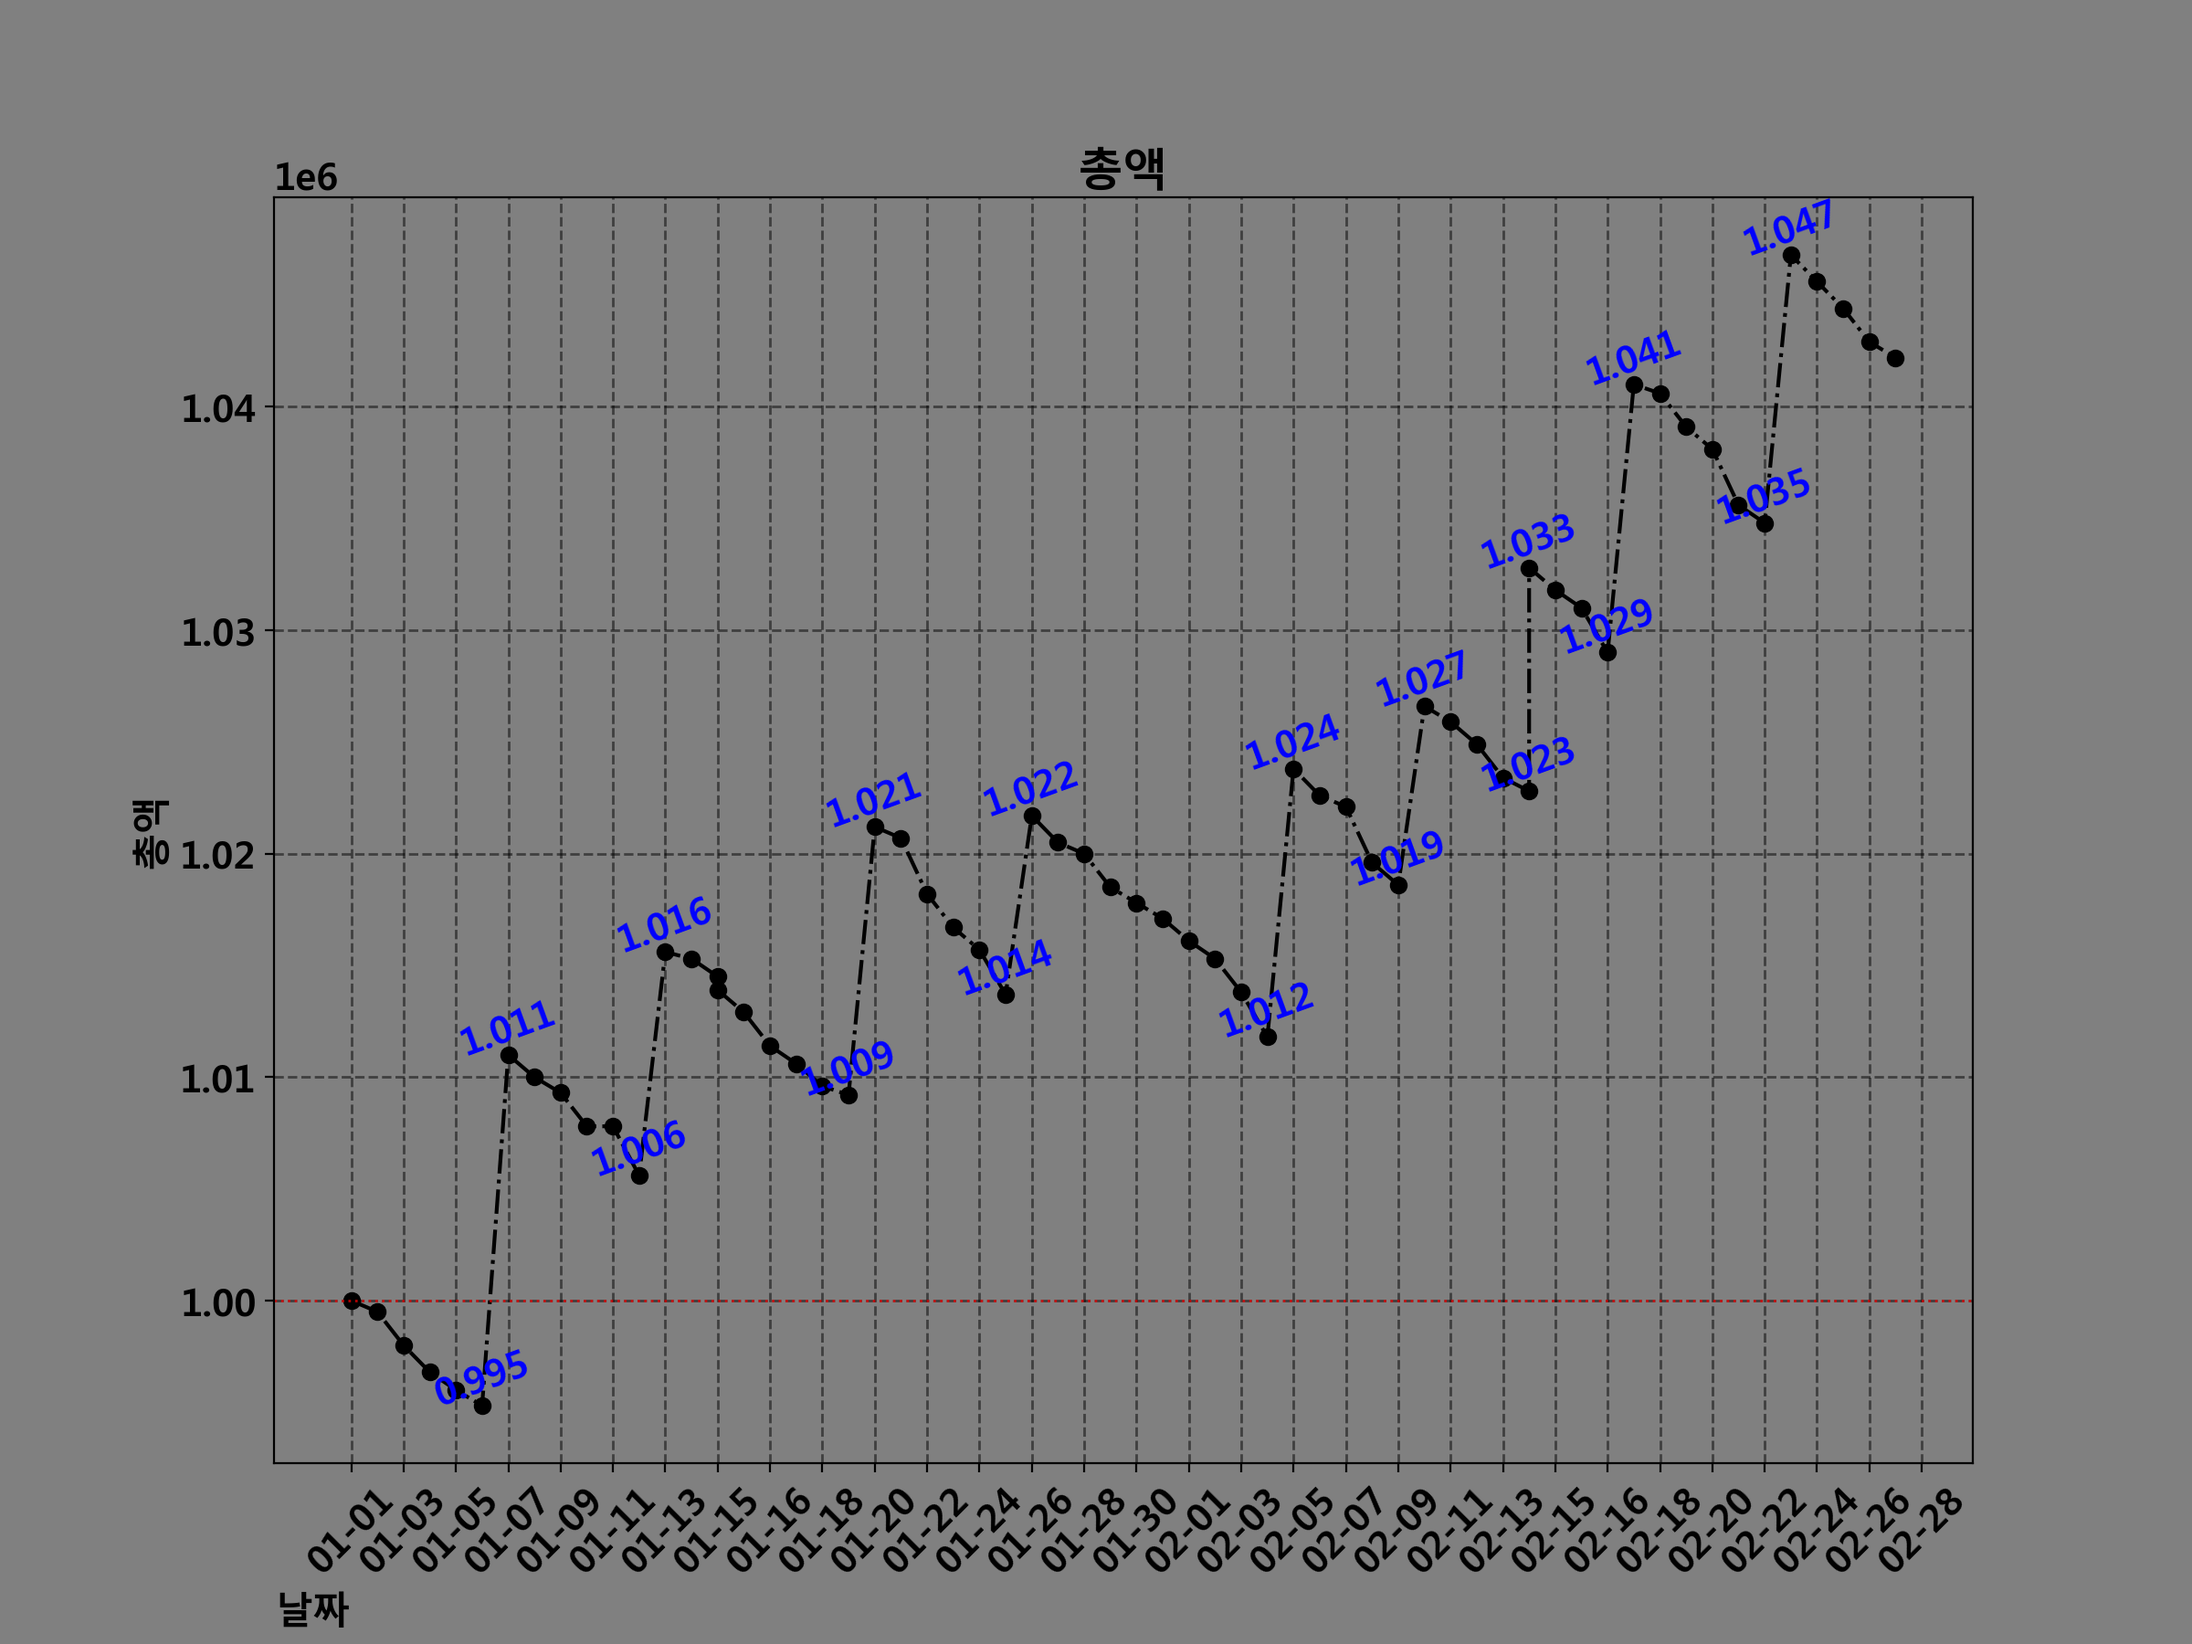
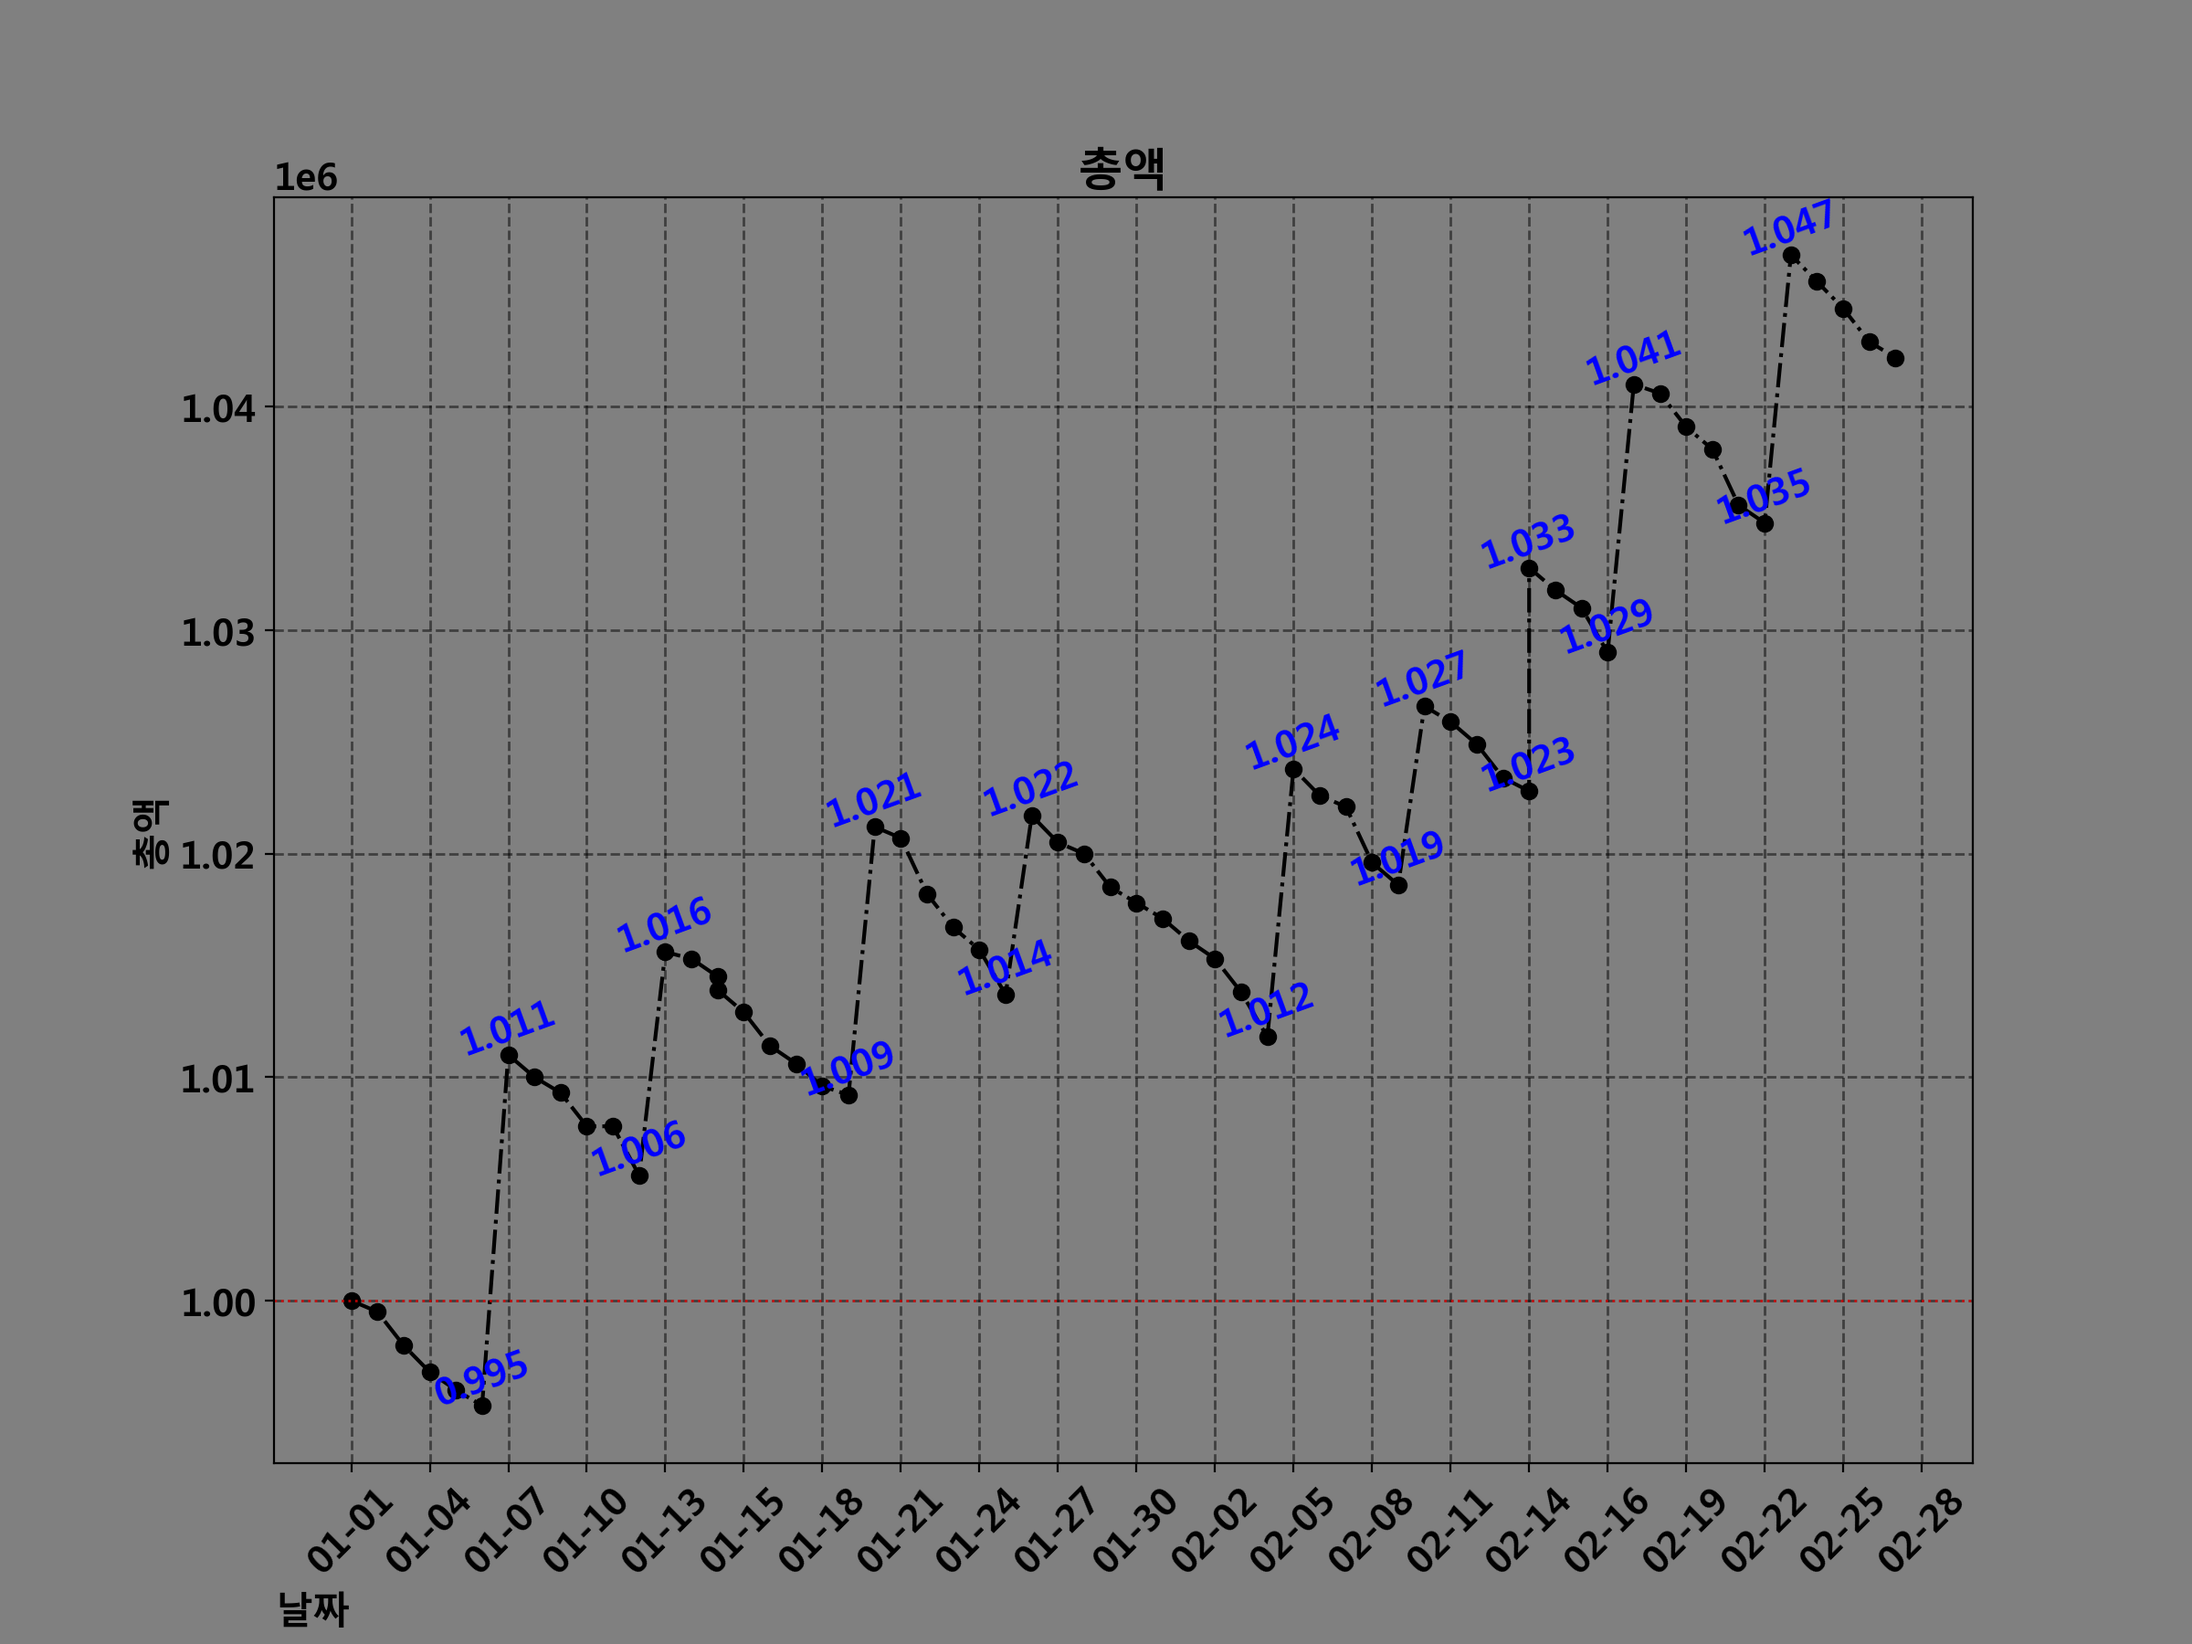
.

Changed region(s): [[0.375, 0.9022, 0.875, 0.9644], [0.1562, 0.9022, 0.375, 0.9644]]

diff --git a/Lee/python/application/visualizer/weekly.py b/Lee/python/application/visualizer/weekly.py
@@ -1,0 +1,73 @@
+import matplotlib 
+import data_csv.day_seper
+matplotlib.rcParams['font.family'] = 'Malgun gothic' # OR NanumMyeongjo
+matplotlib.rcParams['font.size'] = 15
+matplotlib.rcParams['axes.unicode_minus'] = False
+
+import matplotlib.pyplot as plt 
+from datetime import datetime
+from matplotlib.ticker import ScalarFormatter 
+
+
+import data_csv
+import graph_gen
+import graph_text_gen
+
+
+def preprocessor():
+    date, note, amount, total_amount = data_csv.read_data('data_csv/data.csv')
+
+    ymd, hnm, sec = data_csv.time_seper(date)
+
+    year, month, day = data_csv.day_seper(ymd)
+
+    week_day = []
+
+
+    for i in ymd:
+
+        imsi_date = datetime.strptime(i, "%Y-%m-%d")
+        week_day.append(imsi_date.weekday()) # 월요일이 0 - 일요일은 6
+
+
+
+    print(len(week_day), len(day))
+
+    indexer = [0]
+
+    for j in range(len(month) - 1):
+        if month[j] != month[j + 1]:
+            indexer.append(j + 1)
+
+    indexer.append(len(day) + 2)
+
+    month_seper = len(sorted(set(month))) - 1
+
+    xlist = day[indexer[month_seper]:indexer[month_seper+1]]
+    ylist = total_amount[indexer[month_seper]:indexer[month_seper+1]]
+
+    return xlist, ylist, month_seper
+
+
+
+def weekly_gen():
+
+    xlist, ylist, month_seper = preprocessor()
+
+
+    fig, ax = graph_gen.graph_gen(xlist, ylist, figsize=(12, 8), 
+                                    title=f'{month_seper + 1}월 소비량',
+                                    x_rotation=20)
+
+    ax = graph_text_gen.graph_text_gen(xlist, ylist, ax, show_level=1)
+
+    fig.savefig(f'graphs/{month_seper + 1}monthly.png', dpi=200)
+
+
+if __name__ == "__main__":
+    import time
+
+    st = time.time()
+    weekly_gen()
+    et = time.time()
+    print(et - st)

diff --git a/Lee/python/application/visualizer/monthly.py b/Lee/python/application/visualizer/monthly.py
@@ -12,8 +12,7 @@ import graph_gen
 import graph_text_gen
 
 
-def monthly_gen():
-
+def preprocessor():
     date, note, amount, total_amount = data_csv.read_data('data_csv/data.csv')
 
     ymd, hnm, sec = data_csv.time_seper(date)
@@ -30,6 +29,14 @@ def monthly_gen():
             indexer.append(j + 1)
 
     indexer.append(len(day) + 2)
+
+    return month, indexer, day, total_amount
+
+
+
+def monthly_gen():
+
+    month, indexer, day, total_amount = preprocessor()
 
 
     for k in range(len(sorted(set(month)))):
@@ -48,7 +55,7 @@ def monthly_gen():
 
 if __name__ == "__main__":
     import time
-    
+
     st = time.time()
     monthly_gen()
     et = time.time()

diff --git a/Lee/python/application/visualizer/total.py b/Lee/python/application/visualizer/total.py
@@ -28,8 +28,9 @@ def total_gen():
 
     mnd, total_amount = preprocess_total_data()
 
+    xticks = int(len(mnd)/20)
 
-    fig, ax = graph_gen.graph_gen(mnd, total_amount, xticks=2, title='총액')
+    fig, ax = graph_gen.graph_gen(mnd, total_amount, xticks=xticks, title='총액')
 
     ax = graph_text_gen.graph_text_gen(mnd, total_amount, ax, show_level=2)
 

diff --git a/Lee/python/application/visualizer/__init__.py b/Lee/python/application/visualizer/__init__.py
@@ -1,4 +1,9 @@
+
+
 from .total import total_gen
 from .monthly import monthly_gen
+from .weekly import weekly_gen
+
+
 from .graph_gen import graph_gen
 from .graph_text_gen import graph_text_gen
